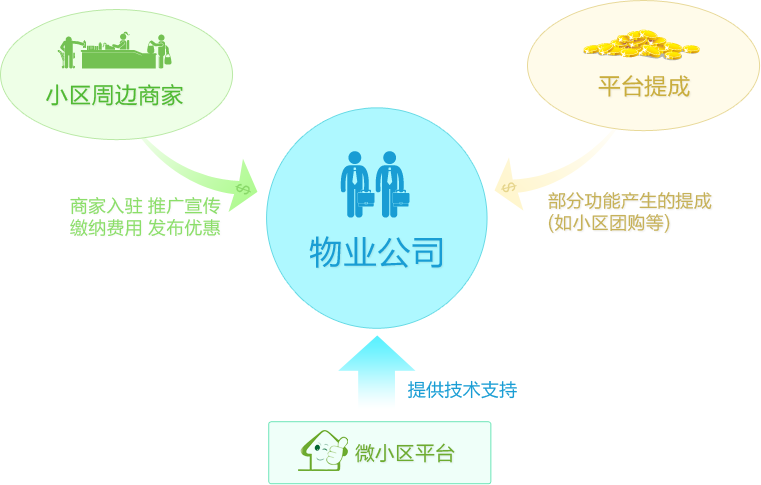
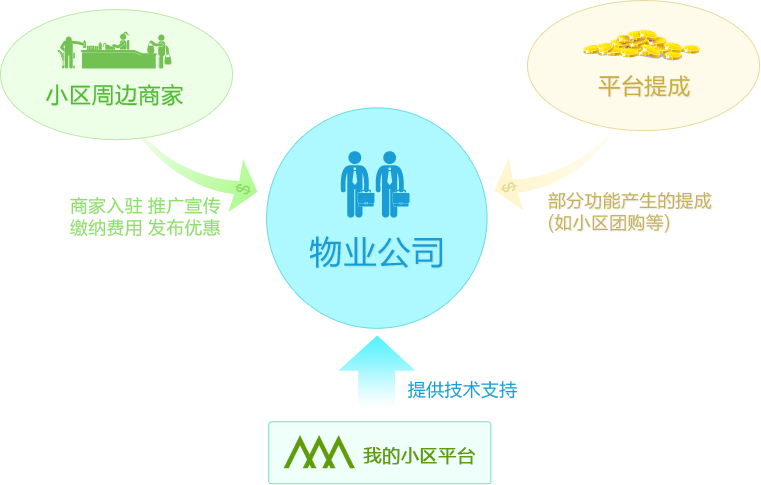
首页内容修改

Changed region(s): [[0.3627, 0.8969, 0.6347, 0.9897]]

diff --git a/new_weixin/tpl/Home/xiaoqu/Index_index.html b/new_weixin/tpl/Home/xiaoqu/Index_index.html
@@ -22,10 +22,10 @@
 <link rel="shortcut icon" href="{ZF::RES}/images/favicon.ico" />
 </head>
 <div class="nav clearfix" style="position: fixed;">
-	<div class="container">
+	<div class="container" style="width:1200px;">
     	<h1 class="left" href="{ZF::C('site_url')}">{ZF::C('site_name')}</h1>
     	<div class="right line-li">
-
+			<ul>
 				<li><a href="{ZF::C('site_url')}" >首页</a></li>
 
                 <li><a href="{ZF::U('Home/Index/fc')}">功能介绍</a></li>
@@ -48,7 +48,7 @@
 
                 <li <eq name="ACTION_NAME" value="help">class="menuon"</eq>><a href="{ZF::U('Home/Index/help')}">帮助中心</a></li>
 
-
+			</li>
 		</div>
     </div>
 </div>
@@ -85,8 +85,14 @@ $("#banner").carousel({items: [
             <div class=" row function">
             	<div class="col-md-6 left">
                 	<span>
-                		<h3>物业服务</h3>
-							我的小区提供给物业专有的特色功能，物业可通过微信方便地组织小区活动，也可在微信端发布小区公告，办事指南以及上传小区住户的物业费用等来高效率地管理业主，提高物业的服务水平，轻松实现微信物业，引导物业全面进入“微物业”时代。    	
+                		<h3>你了解你的小区吗？</h3>
+							<p>在小区住这么久了，对于小区的服务你都了解吗？</p>
+                            <p>现在，只需在我的小区平台注册一个帐号，你就可以享受以下种种服务：</p>
+                        <ul >
+                            <li class="des_content"><strong>1.</strong>业主可通过我的小区平台进行资讯查看，自助报修、意见反馈、物业费用查询等服务</li>
+                            <li class="des_content"><strong>2.</strong>业主可以在小区内拓展自己的交际生活圈，也可以对自己闲置的物品进行小区二手买卖，上下班出行还可参与拼车服务等</li>
+                            <li class="des_content"><strong>3.</strong>业主可在我的小区平台发现各式各样的店铺，了解到商家发布的最新信息，也可在线购买小区商家的物品</li> 
+                        </ul>	
                     </span>
                 </div>
                 <div class="col-md-6 right">
@@ -100,8 +106,11 @@ $("#banner").carousel({items: [
                 </div>
                 <div class="col-md-6 right">
                 	<span>
-                		<h3>业主互动</h3>
-							我的小区为小区业主提供的多种互动功能，业主可以在微信端进行自助报修、意见反馈、物业费用查询等，业主也可以快速查找小区周边服务信息，轻松进行在线交易，我的小区还为小区提供了专门的社区模块，帮助业主快速建立自己的网上家园。                	
+                		<h3>商家服务</h3>
+                        <ul>
+                            <li><strong>1.</strong>商家可了解自己小区内部商家以及其他小区商家的最新动态，关注网站最新信息</li>
+                            <li><strong>2.</strong>商家可在我的小区平台开店，自由发布自己的促销产品，方便业主快速了解商家店铺的最新动态</li>
+                        </ul>
                     </span>
                 </div>
              </div>
@@ -109,8 +118,13 @@ $("#banner").carousel({items: [
             <div class=" row function">
             	<div class="col-md-6 left">
                 	<span>
-                		<h3>商家服务</h3>
-							我的小区为商家提供新的营销模式，小区商家可通过微信在线方便快速地展示自己的店铺信息和各类促销产品，以最快的速度展示在业主面前。引导物业全面进入“微物业”时代。    	
+                		<h3 style="margin-top:30px; ">物业管理</h3>
+                        <ul style="line-height:40px;">
+                            <li><strong>1.</strong>物业可以通过我的小区平台组织小区活动，供业主积极报名参与</li>
+                            <li><strong>2.</strong>物业可在我的小区平台发布小区公告，办事指南，迅速发布物业信息</li>
+                            <li><strong>3.</strong>物业可上传小区住户的物业费用来高效率地管理业主，方便业主查询</li>
+                            <li><strong>4.</strong>物业还可在我的小区平台开设小区便利店，服务小区业主，实现物业盈利</li>  
+                        </ul>                         
                     </span>
                 </div>
                 <div class="col-md-6 right">
@@ -118,40 +132,40 @@ $("#banner").carousel({items: [
                 </div>
             </div>
             <div class="block"></div>
-            <div class="row">
+         <!-- <div class="row">
             	<div class="col-md-12">
                     <h2>我的小区如何让物业公司赢利？</h2>
                     <div class="block"></div>
                     <div class="line"></div>
                 </div>
                 <div class="col-md-12"><img src="{ZF::RES}/images/xiaoqu.png"/></div>
-            </div>
-            <div class="block"></div>
-            <div class="line"></div>
-        	<div class="row">
+            </div>-->
+           
+        	<!-- <div class="row">
             	<div class="col-md-3">
-                	<span class="words">真没想到有这样的网站专门为我们物业公司服务，之前就开通了微信公众平台，但是不太懂，不知道怎么运营，用我的小区来管理运营就方便的多了，我的小区确实是我们管理小区的好助手。</span>
+                	<span class="words">入驻了我的小区之后，我在小区的顾客是越来越多了，之前因为店铺铺位不明显，导致很多业主都没看到我的店铺，现在在我的小区上面，大家都能在网站看到我们店铺的信息，生意也是越来越好了。</span>
                     <div class="block"></div>
-                    <span class="author">— <span class="glyphicon glyphicon-user" style="padding-left:5px;padding-right:5px;"></span>中天物业-任经理</span>
+                    <span class="author">— <span class="glyphicon glyphicon-user" style="padding-left:5px;padding-right:5px;"></span>金碧新城-徐店主</span>
                 </div>
                 <div class="col-md-3">
-                	<span class="words">开通了我的小区以后，业主反应比较好，提升了我们公司的形象，这点很不错。而且我的小区还是免费的，没什么门槛，这点也不错。希望和我的小区能长期合作，互利共赢。</span>
-                    <div class="block"></div>
-                    <span class="author">— <span class="glyphicon glyphicon-user" style="padding-left:5px;padding-right:5px;"></span>佳信和物业-徐经理</span>
-                </div>
-                <div class="col-md-3">
-                	<span class="words">我的小区的模式之前有考虑过，也咨询了一些软件公司，开发一套需要不少钱，也就放弃了。现在我的小区免费给我们物业公司使用，确实能解决我们的大问题，非常感谢我的小区，希望你们能越做越好。</span>
-                    <div class="block"></div>
-                    <span class="author">— <span class="glyphicon glyphicon-user" style="padding-left:5px;padding-right:5px;"></span>华强物业-刘经理</span>
-                </div>
-                <div class="col-md-3">
-                	<span class="words">我的小区平台真心不错，以前小区内有什么通知都需要挨家挨户过来咨询，现在一句公告添加到我的小区上去，整个小区的业主都知道了，很方便我们物业管理小区。</span>
+                	<span class="words">开通了我的小区以后，业主反应比较好，以前小区内有什么通知都需要挨家挨户过来咨询，现在一句公告添加到我的小区上去，整个小区的业主都知道了，消息传播得很快，很方便。</span>
                     <div class="block"></div>
                     <span class="author">— <span class="glyphicon glyphicon-user" style="padding-left:5px;padding-right:5px;"></span>金碧物业-黄经理</span>
                 </div>
+                <div class="col-md-3">
+                	<span class="words">自从加入了我的小区之后，经常能看到小区的最新动态，现在需要什么都可以直接上网预定，不需要走到小区店铺也可以买到想要的东西，也因为我的小区平台，我现在认识了很多邻居呢！</span>
+                    <div class="block"></div>
+                    <span class="author">— <span class="glyphicon glyphicon-user" style="padding-left:5px;padding-right:5px;"></span>金碧新城-朱小姐</span>
+                </div>
+                <div class="col-md-3">
+                	<span class="words">我的小区平台真心不错，以前小区很少组织一些集体活动的，因为小区人多，很难去组织，现在小区里面多了好多集体活动，都在我的小区里面能看到，想参加直接报名就可以了。</span>
+                    <div class="block"></div>
+                    <span class="author">— <span class="glyphicon glyphicon-user" style="padding-left:5px;padding-right:5px;"></span>金碧新城-黄先生</span>
+                </div>
            		<div class="block"></div>
-            </div>
+            </div>  -->
 		</div>
+
 		<!--产品结束-->  	
           <!--主要功能开始-->
 		<div class="gongneng" id="container">

diff --git a/new_weixin/tpl/Home/xiaoqu/common/css/index.css b/new_weixin/tpl/Home/xiaoqu/common/css/index.css
@@ -1266,9 +1266,12 @@ border: 0;cursor: pointer;display: inline-block;height: 61px;margin-top: 10px;ou
 
 .home-des-show .function{padding-bottom:20px;}
 
-.home-des-show .function .left span{font-size:18px;line-height:40px;}
+.home-des-show .function .left span{font-size:18px;line-height:35px;}
 
-.home-des-show .function .left span h3{font-size:30px;padding-bottom:10px; padding-top:80px;}
+.home-des-show .function .left span h3{font-size:30px;padding-bottom:10px;color:#009933;}
+
+.home-des-show .function .left span li strong{color:#009933;padding-right:5px;}
+
 
 .home-des-show .function .left{width:48%;float:left;}
 
@@ -1276,7 +1279,15 @@ border: 0;cursor: pointer;display: inline-block;height: 61px;margin-top: 10px;ou
 
 .home-des-show .function .right span{font-size:18px;line-height:40px;}
 
-.home-des-show .function .right span h3{font-size:30px;padding-bottom:10px;padding-top:80px;}
+.home-des-show .function .right span h3{font-size:30px;padding-bottom:10px;padding-top:80px;color:#009933;}
+
+.home-des-show .function  span ul{padding-top:20px;}
+
+.home-des-show .function  span li{list-style:none;font-size:16px;}
+
+.home-des-show .function span .des_content{padding-left:1em;color:#666;}
+
+.home-des-show .function .right span li strong{color:#009933;padding-right:5px;}
 
 .home-des-show .function .left{width:48%;float:left;}
 

diff --git a/new_weixin/tpl/Home/xiaoqu/Public_footer.html b/new_weixin/tpl/Home/xiaoqu/Public_footer.html
@@ -55,9 +55,9 @@
 </script>
 
 <!--QQ咨询-->
-
+<!--
 <include file="Public:qq"/>
-
+-->
 <div class="footer">
 
 	<div class="footer-content clearfix">
